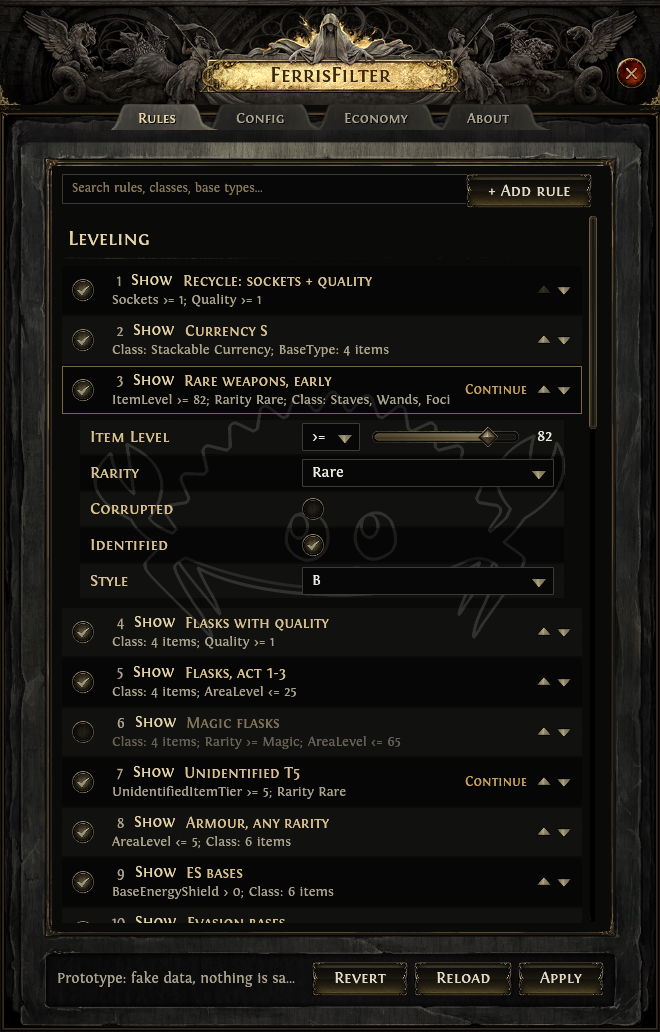
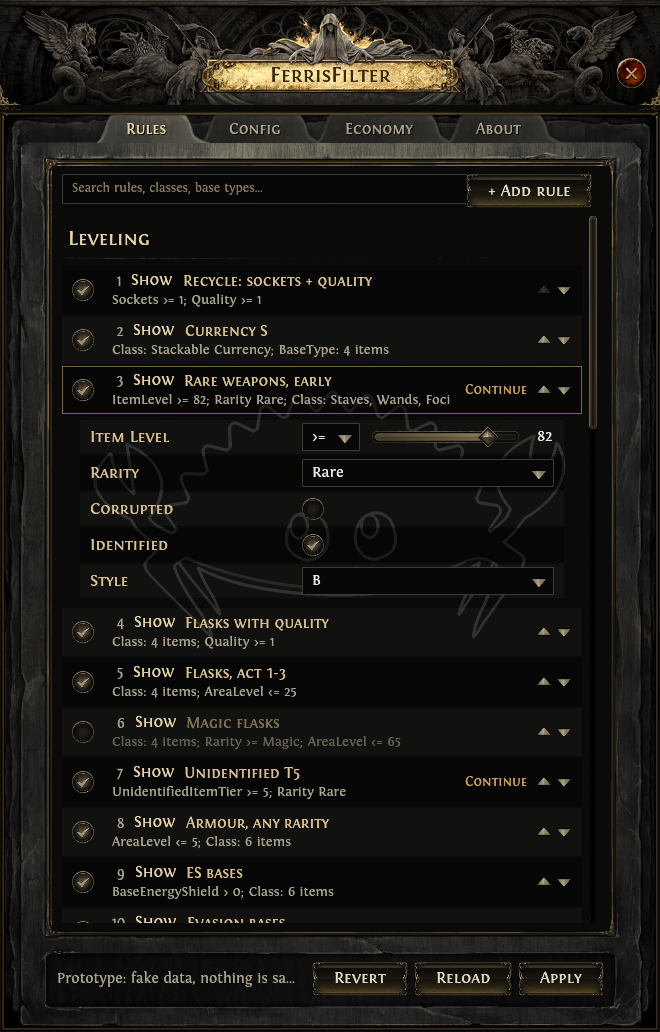
fix(quick-261016-1de): seat the tabs in the frame's top band at full height
The tab strip was a fixed 26pt band 13pt below the frame top: its stones began above the
frame's outer gold line (into the header's edge) and stopped mid-way down the dark band,
floating above the light stone strip. skin::widgets::tab_strip derives the strip from the
frame art (texel rows 48-103 of the top border), so each stone is drawn at full height
between the gold line and the light strip, as the game's Options window seats its tabs.
Screenshots re-taken.

Claude-Session: https://claude.ai/code/session_016M9qsaR7etMBDh279zy4Qx

Changed region(s): [[0.1515, 0.093, 0.8182, 0.155], [0.8182, 0.124, 0.8485, 0.155]]

diff --git a/src/skin/widgets.rs b/src/skin/widgets.rs
@@ -91,6 +91,25 @@ pub fn ff_frame(painter: &Painter, skin: &Skin, outer: Rect) -> FrameLayout {
     layout
 }
 
+/// The rows of the page frame's top border (in texels of the 4K art) that hold the tabs: from
+/// just below the outer gold line (rows 41-47) to the top of the light stone strip (row 103),
+/// the dark band where the game's Options window seats its tabs.
+pub const TAB_STRIP_TEXELS: (f32, f32) = (48.0, 103.0);
+
+/// Where [`ff_tabs`] goes on a frame: the dark band of its top border, as wide as the content.
+/// Each stone is drawn at this full height, its bottom resting on the light stone strip and its
+/// top clear of the gold line and of the header art above.
+pub fn tab_strip(frame: &FrameLayout) -> Rect {
+    let (top, bottom) = TAB_STRIP_TEXELS;
+    Rect::from_min_max(
+        pos2(frame.content.min.x, frame.outer.min.y + top * frame.scale),
+        pos2(
+            frame.content.max.x,
+            frame.outer.min.y + bottom * frame.scale,
+        ),
+    )
+}
+
 // ---------------------------------------------------------------------------------------------
 // Header, close button, tabs
 
@@ -1159,5 +1178,11 @@ mod tests {
         assert_eq!(l.content.max, pos2(605.0, 900.0));
         assert!(l.button_bar.min.y > l.content.max.y);
         assert!(l.button_bar.max.y < outer.max.y);
+        // The tab strip sits inside the frame's top border, above the content, never above the
+        // frame (where the header art is).
+        let t = tab_strip(&l);
+        assert!(t.min.y > outer.min.y && t.max.y < l.content.min.y);
+        assert_eq!((t.min.y, t.max.y), (124.0, 151.5));
+        assert!(t.height() >= 26.0);
     }
 }

diff --git a/src/bin/ff-proto.rs b/src/bin/ff-proto.rs
@@ -340,12 +340,7 @@ impl eframe::App for Proto {
         }
 
         // 4. Tabs, sitting on the frame's top edge.
-        let tab_h = 26.0;
-        let tabs = Rect::from_min_max(
-            pos2(frame.content.min.x, frame.outer.min.y + 13.0),
-            pos2(frame.content.max.x, frame.outer.min.y + 13.0 + tab_h),
-        );
-        w::ff_tabs(ui, &skin, tabs, &TABS, &mut self.tab);
+        w::ff_tabs(ui, &skin, w::tab_strip(&frame), &TABS, &mut self.tab);
 
         // 5. Content, clipped to the area inside the gold line.
         let content = frame.content.shrink2(vec2(10.0, 8.0));

diff --git a/.planning/quick/261016-1de-poe2-prototype-tab-layout-style-editor-a/261016-1de-SUMMARY.md b/.planning/quick/261016-1de-poe2-prototype-tab-layout-style-editor-a/261016-1de-SUMMARY.md
@@ -55,6 +55,17 @@ warning cut with an ellipsis), `ff-proto-status-error.png`, `ff-proto-tabs-zoom.
   ff-art); no clippy warnings in `src/skin`, `src/bin/ff-proto.rs` or ff-art.
 - `src/overlay/`, `src/bin/ff.rs`, `tests/` and fixtures untouched.
 
+## Follow-up: tab strip seating (user feedback)
+The tab strip was a hard-coded 26pt band starting 13pt below the frame's top. In frame
+texels (scale 0.5) that is rows 26-78: the stones started above the frame's outer gold line
+(rows 41-47), running into the header's lower edge, and ended in the middle of the dark band,
+floating above the light stone strip (row 103) instead of resting on it. New
+`skin::widgets::tab_strip(&FrameLayout)` derives the strip from the frame art
+(`TAB_STRIP_TEXELS = (48, 103)`): stones are drawn at their full height (27.5pt) between the
+gold line and the light strip, as in the game's Options window (`poe2_print009.png`), with no
+clip rect on them, selected or not. Unit-tested in `frame_layout_keeps_content_inside_the_gold_line`.
+All screenshots in this folder were re-taken after the fix.
+
 ## Known gaps
 - No colour picker (by request); swatch cards only toggle none / colour.
 - The status tooltip and hover states were checked in code and headless tests, not in a
